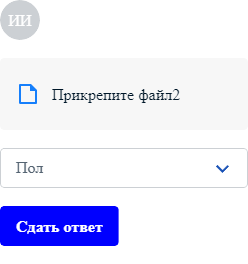
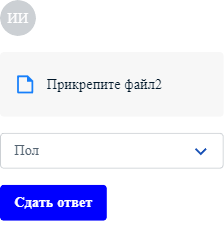
minor changes againg

diff --git a/src/App.js b/src/App.js
@@ -331,7 +331,7 @@ function App() {
 
       {isSending && (
         <div className="loading-overlay">
-          <Spinner size="l" />
+          <Spinner size="l" color='#3663aaff'/>
         </div>
       )}
     </div>

diff --git a/RESTful API/main.py b/RESTful API/main.py
@@ -1,68 +1,51 @@
 from flask import Flask, jsonify, request
 from flask_cors import CORS
-import os
-import openai
-from jinja2 import Template
-import json
-
-from utils.prompt_template import PROMPT_TEMPLATE
-from utils.components_base import COMPONENTS_BASE
+import time
 
 app = Flask(__name__)
 CORS(app, resources={r"/api/*": {"origins": "*"}})
 
-OPEN_AI_TOKEN = ''
-openai.api_key = OPEN_AI_TOKEN
-
-openai.proxy = {
-    "https": "http://LbccCm73:BpXFJk8s@https://92.119.192.67:64019",
-}
-
 @app.route("/api/main", methods=["POST"])
 def get_component_data():
     data = request.get_json()
-    print(data)
     input_value = data.get('inputValue', '')
-    component = get_answer(input_value)
-    component = component.strip('` \n')
-    if component.startswith('json'):
-        component = component[4:]
-
-    components = []
-    data = json.loads(component)
-
-    for _ in data["components"]:
-        components.append(_)
+    print(input_value)
+    time.sleep(5)
+    components = [
+        {
+            "type": "Avatar",
+            "props": {
+                "userName": "Иван",
+                "userSurname": "Иванов"
+            }
+        },
+        {
+            "type": "File",
+            "props": {
+                "label": "Прикрепите файл2"
+            }
+        },
+        {
+            "type": "Select",
+            "props": {
+                "options": [
+                    {"value": "male", "label": "Мужской"},
+                    {"value": "female", "label": "Женский"}
+                ],
+                "label": "Пол"
+            }
+        },
+        {
+            "type": "Button",
+            "props": {
+                "children": "Сдать ответ",
+                "style": {"backgroundColor": "#3663aaff", "color": "white"}
+            }
+        }
+    ]
 
     return jsonify({'components': components})
 
-def get_gpt_response(task):
-    try:
-        response = openai.chat.completions.create(
-            model="gpt-4o",
-            messages=[{"role": "user", "content": task}],
-            max_tokens=1000,
-            temperature=0.7
-        )
-        print("res2:" + response)
-        return response.choices[0].message.content
-    except Exception as e:
-        return f"Произошла ошибка: {e}"
-
-def get_task(answer_front):
-    text = Template('''
-    {{answer_front}}
-    ''')
-    task = text.render(answer_front=answer_front)
-    return task
-
-def get_answer(answer_front):
-    task = get_task(answer_front)
-    template = Template(PROMPT_TEMPLATE)
-    query = template.render(task=task, components_base=COMPONENTS_BASE)
-    response = get_gpt_response(query)
-    print("res: " + response)
-    return response
 
 if __name__ == "__main__":
     app.run(debug=True, port=5001, host='127.0.0.1')
